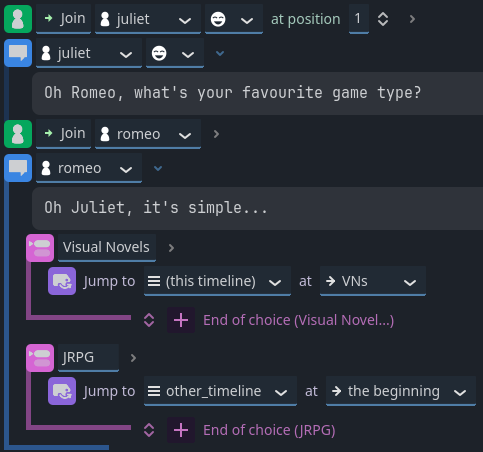
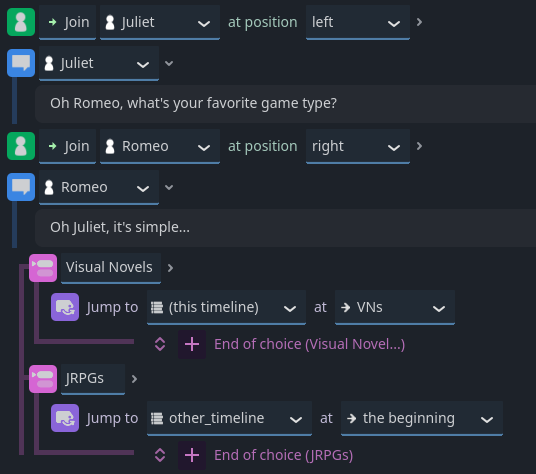
Small stuff that was staged for ages

diff --git a/documentation/introduction.md b/documentation/introduction.md
@@ -27,14 +27,14 @@ The **Visual Editor** has each event as a movable block with easy to use fields:
 The **Text Editor** allows you to write events in pure text format. It provides syntax highlighting and auto-completion making writing timelines super efficient. You can use any text editor, though. Here is the same timeline in the text format:
 
 ```dtl
-join juliet 1
-juliet: Oh Romeo, what's your favourite game type?
-join romeo 2
-romeo: Oh Juliet, it's simple...
+join Juliet left
+Juliet: Oh Romeo, what's your favorite game type?
+join Romeo right
+Romeo: Oh Juliet, it's simple...
 - Visual Novels
-    jump VNs
-- JRPG
-    jump other_timeline/
+	jump VNs
+- JRPGs
+	jump other_timeline/
 ```
 
 No strings attached; you can mix and match as you please!

diff --git a/documentation/text-modifiers.md b/documentation/text-modifiers.md
@@ -48,7 +48,7 @@ If a text is encountered multiple times during your game, this can be a nice way
 
 **Supports:** *Text Events, Choice Events*
 
-This makes it easy to insert conditional text into text events without adding a whole condition event and two text events.
+This makes it easy to insert conditional text into text events without adding a whole condition event and two text events. 
 
 ---
 
